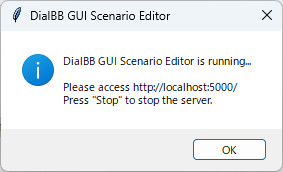
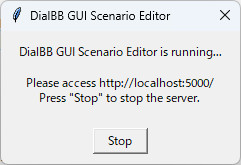
Change the dialog button to 'Stop'.

diff --git a/dialbb/builtin_blocks/stn_management/gui_editor/main.py b/dialbb/builtin_blocks/stn_management/gui_editor/main.py
@@ -12,6 +12,7 @@ import os
 import tkinter as tk
 from tkinter import ttk
 from tkinter import messagebox
+from tkinter import simpledialog
 from tkinter import filedialog
 import subprocess
 import webbrowser
@@ -70,12 +71,36 @@ class Proc_mng:
         print(f'# Terminated process of {self.cmd}.')
 
 
+# カスタムメッセージダイアログのクラス
+class CustomDialog(simpledialog.Dialog):
+    def __init__(self, master, title=None, msg='', detail='', btn='OK') -> None:
+        self.mater = master     # 親フレーム
+        self.msg = msg          # 表示メッセージ
+        self.detail = detail    # 表示Detail（省略可）
+        self.btn = btn          # ボタンの文字（省略時"OK"）
+        super(CustomDialog, self).__init__(parent=master, title=title)
+
+    def body(self, master):
+        # メッセージの表示
+        self.label = tk.Label(master, text=self.msg)
+        self.label.pack(padx=10, pady=5)
+        # Detailの表示
+        if self.detail:
+            self.detail = tk.Label(master, text=self.detail)
+            self.detail.pack(padx=10, pady=5)
+
+    def buttonbox(self):
+        # ボタンのテキストを指定文字にセット
+        self.ok_button = tk.Button(self, text=self.btn, command=self.ok)
+        self.ok_button.pack(pady=10, ipadx=10)
+
+
 # -------- GUIエディタ関連 -------------------------------------
 # GUIエディタ起動
-def exec_Editor(file_path):
+def exec_Editor(parent):
     # 知識記述Excel-json変換
     init_json = os.path.join(EDITOR_DIR, 'dist', 'static', 'data', 'init.json')
-    ret = Conv_exl2json(file_path, init_json)
+    ret = Conv_exl2json(parent.edit_box.get(), init_json)
     if not ret:
         return
     
@@ -101,9 +126,10 @@ def exec_Editor(file_path):
             pass
 
         # 終了の指示待ち
-        msg = 'DialBB GUI Scenario Editor is running...'
         # messagebox.showinfo("DialBB GUI Scenario Editor", msg, detail='http://localhost:5000/にアクセス！\n終了する時はOKボタンを押してください.')
-        messagebox.showinfo("DialBB GUI Scenario Editor", msg, detail='Please access http://localhost:5000/\nPress "Stop" to stop the server.')
+        CustomDialog(parent, title='DialBB GUI Scenario Editor', btn='Stop',
+                     msg='DialBB GUI Scenario Editor is running...',
+                     detail='Please access http://localhost:5000/\nPress "Stop" to stop the server.')
 
         # 終了処理
         save_json = os.path.join(EDITOR_DIR, 'dist', 'static', 'data', 'save.json')
@@ -193,7 +219,7 @@ def set_file_frame(parent_frame, label_text, file_type_list):
     
     # editボタンの作成:GUIエディタ起動
     btnEditor = tk.Button(file_frame, text="edit", width=5,
-                          command=lambda: exec_Editor(file_frame.edit_box.get()))
+                          command=lambda: exec_Editor(file_frame))
     btnEditor.grid(column=2, row=1, padx=5)
 
     return file_frame

diff --git a/dialbb/builtin_blocks/stn_management/gui_editor/start_editor.py b/dialbb/builtin_blocks/stn_management/gui_editor/start_editor.py
@@ -11,9 +11,11 @@ print(f'template_folder={DOC_ROOT}')
 app = Flask(__name__,  template_folder=DOC_ROOT, 
             static_folder=os.path.join(DOC_ROOT, 'static'))
 
+
 @app.route('/')
 def home():
     return render_template('index.html')
+
 
 @app.route('/upload', methods=['POST'])
 def upload_file():
@@ -27,6 +29,7 @@ def upload_file():
         filename = secure_filename(file.filename)
         file.save(os.path.join(DOC_ROOT, 'static/data/', filename))
         return 'File successfully uploaded'
+
 
 @app.route('/save', methods=['POST'])
 def save_excel():

diff --git a/dialbb/builtin_blocks/stn_management/gui_editor/README-ja.md b/dialbb/builtin_blocks/stn_management/gui_editor/README-ja.md
@@ -13,12 +13,12 @@
 * セットアップ  
   gui_editor/フォルダで
 ```
-  $ npm install
+npm install
 ```
 
 * 動作確認  
 ```
-  $ npm run dev
+npm run dev
 ```
 
   ブラウザよりアクセス  
@@ -26,7 +26,7 @@
 
 * 本番用ビルド  
 ```
-  $ npm run build
+npm run build
 ```
   dist/フォルダにリリース物が生成されます  
   
@@ -34,7 +34,7 @@
 ### シナリオ エディタの起動方法  
 #### ・メイン画面の起動
 ```
-  $ python dialbb\builtin_blocks\stn_management\gui_editor\main.py
+python dialbb\builtin_blocks\stn_management\gui_editor\main.py
 ```
 
 #### ・エディタの起動
